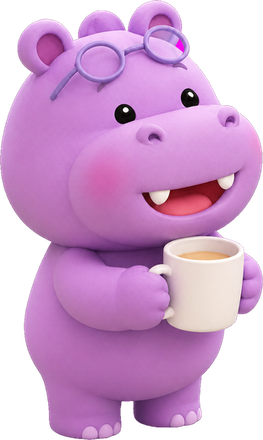
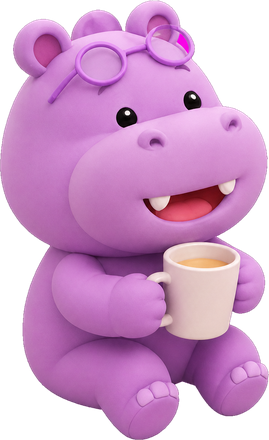
2.5D — 앉은 자세 스프라이트(부이·키링·하마·하크·인스팅트)로 다리 잘림 수정, 캐릭터별 모션 강화(타자·흔들림·커피·독서·가끔 손흔들기), 말풍선 아래 단톡방 접속 상태 표시, 말풍선 우측 클램핑

diff --git a/index.html b/index.html
@@ -826,16 +826,26 @@
   .o25-bg{position:absolute; inset:0; width:100%; height:100%; display:block; user-select:none; -webkit-user-drag:none; -webkit-touch-callout:none}
   .o25-chars{position:absolute; inset:0; z-index:1}
   .o25-chr{position:absolute; will-change:transform; cursor:pointer; -webkit-tap-highlight-color:transparent}
-  .o25-body{display:block; width:100%; height:100%; animation:o25sway var(--sw,6s) ease-in-out infinite; animation-delay:var(--sd,0s)}
-  .o25-chr img{display:block; width:100%; height:100%; filter:drop-shadow(0 5px 6px rgba(92,62,42,.16)); transition:filter .22s ease, transform .22s ease; animation:o25breath var(--bd,4.8s) ease-in-out infinite; animation-delay:var(--sd,0s); animation-fill-mode:both}
+  .o25-body{display:block; width:100%; height:100%; transform-origin:50% 100%; will-change:transform}
+  .o25-chr img{display:block; width:100%; height:100%; filter:drop-shadow(0 5px 6px rgba(92,62,42,.16)); transition:filter .22s ease}
   .o25-chr:hover img{filter:drop-shadow(0 8px 12px rgba(92,62,42,.26)) brightness(1.04)}
   .o25-chr.on img{filter:drop-shadow(0 8px 12px rgba(92,62,42,.22)) brightness(1.06)}
   .o25-chr.on .o25-body{animation:o25hop .55s ease-in-out 2}
-  @keyframes o25breath{0%,100%{transform:scale(1,1)}50%{transform:scale(1.012,1.024)}}
-  @keyframes o25sway{0%,100%{transform:rotate(-.55deg)}50%{transform:rotate(.55deg)}}
-  @keyframes o25hop{0%,100%{transform:translateY(0)}40%{transform:translateY(-1.4%)}}
+  /* 캐릭터별 모션 — 아래(발/좌석) 고정, 위가 흔들리게 */
+  @keyframes o25sway{0%,100%{transform:rotate(-2.8deg) translateY(0)}50%{transform:rotate(3deg) translateY(-1.6%)}}
+  @keyframes o25bob{0%,100%{transform:translateY(0) scale(1,1)}45%{transform:translateY(-2.4%) scale(1.012,1.03)}}
+  @keyframes o25type{0%,100%{transform:translateY(0) rotate(-1.2deg)}28%{transform:translateY(-1.6%) rotate(.9deg)}58%{transform:translateY(.5%) rotate(-.6deg)}80%{transform:translateY(-1%) rotate(.4deg)}}
+  @keyframes o25sip{0%,100%{transform:rotate(-3deg) translateY(0)}50%{transform:rotate(-.5deg) translateY(-1.4%)}}
+  @keyframes o25read{0%,100%{transform:rotate(-2deg)}50%{transform:rotate(1.8deg) translateY(-1%)}}
+  @keyframes o25wave{0%,100%{transform:rotate(0) translateY(0)}18%{transform:rotate(-6deg) translateY(-3.4%)}36%{transform:rotate(6deg) translateY(-3.4%)}54%{transform:rotate(-5deg) translateY(-2.4%)}72%{transform:rotate(4deg) translateY(-1.2%)}}
+  .m-sway .o25-body{animation:o25sway var(--dur,5.4s) ease-in-out infinite; animation-delay:var(--sd,0s)}
+  .m-bob  .o25-body{animation:o25bob var(--dur,4.6s) ease-in-out infinite; animation-delay:var(--sd,0s)}
+  .m-type .o25-body{animation:o25type var(--dur,2.2s) ease-in-out infinite; animation-delay:var(--sd,0s)}
+  .m-sip  .o25-body{animation:o25sip var(--dur,4.2s) ease-in-out infinite; animation-delay:var(--sd,0s)}
+  .m-read .o25-body{animation:o25read var(--dur,5s) ease-in-out infinite; animation-delay:var(--sd,0s)}
+  .o25-chr.wave .o25-body{animation:o25wave .95s ease-in-out 3 both !important}
   @media (prefers-reduced-motion: reduce){
-    .o25-chr img,.o25-body{animation:none !important}
+    .o25-body{animation:none !important}
   }
   /* 말풍선 */
   .o25-bubbles{position:absolute; inset:0; pointer-events:none; z-index:20; overflow:visible}
@@ -849,6 +859,9 @@
     box-shadow:0 7px 18px rgba(90,60,40,.20), 0 1px 2px rgba(90,60,40,.10);
   }
   .o25-bub.on{opacity:1; transform:translate(-50%,-100%) scale(1)}
+  .o25-bub-t{display:block; font-weight:800}
+  .o25-bub-s{display:block; margin-top:2px; font-style:normal; font-size:.84em; font-weight:700; letter-spacing:-.1px; color:#A2938A}
+  .o25-bub-s.on{color:#4E9A6B}
   .o25-bub::after{
     content:""; position:absolute; left:50%; bottom:-4.5px; width:9px; height:9px; background:inherit;
     border-right:1px solid rgba(255,255,255,.92); border-bottom:1px solid rgba(255,255,255,.92);
@@ -2633,29 +2646,30 @@
   /* ── 캐릭터 배치 (좌표는 원본 1254px 사진 기준) ───────────── */
   var CHARS = [
     { k: 'chorok',   name: '초록',     tag: '(메인)', x: 668,  y: 508,  h: 132, clip: 14, ar: 0.7712,
-      lines: ['체험단 6개 카테고리 추리는 중이에요', '노션 공용 허브 정리 완료했어요', '모닝 브리핑 초안 쓰고 있어요'] },
+      lines: ['체험단 6개 카테고리 추리는 중이에요', '노션 공용 허브 정리 완료했어요', '모닝 브리핑 초안 쓰고 있어요'], motion: 'm-type' },
     { k: 'norang',   name: '노랑',     tag: '',        x: 772,  y: 536,  h: 132, clip: 14, ar: 0.7769,
-      lines: ['핫딜헌터 훑는 중이에요', '공공설문 3건 완료했어요', '체험단 신청서 작성하고 있어요'] },
+      lines: ['핫딜헌터 훑는 중이에요', '공공설문 3건 완료했어요', '체험단 신청서 작성하고 있어요'], motion: 'm-type' },
     { k: 'maknae',   name: '막내',     tag: '',        x: 876,  y: 564,  h: 128, clip: 14, ar: 0.8135,
-      lines: ['해피방 새 소식 확인 중이에요', '포토리뷰 두 건 완료했어요', '동행복권 응모 끝냈어요'] },
+      lines: ['해피방 새 소식 확인 중이에요', '포토리뷰 두 건 완료했어요', '동행복권 응모 끝냈어요'], motion: 'm-type' },
     { k: 'jinpink',  name: '진분홍',   tag: '',        x: 980,  y: 592,  h: 134, clip: 14, ar: 0.7731,
-      lines: ['쿠팡 주문 점검하고 있어요', '5대 몰 출첵 완료했어요', '발표 확인 돌고 있어요'] },
+      lines: ['쿠팡 주문 점검하고 있어요', '5대 몰 출첵 완료했어요', '발표 확인 돌고 있어요'], motion: 'm-type' },
     { k: 'muse',     name: '뮤즈',     tag: '',        x: 440,  y: 668,  h: 184, clip: 12, ar: 0.6865,
-      lines: ['AI 트렌드 브리핑 쓰는 중이에요', '해피방 답장 완료했어요', '경품 당첨 판 확인 중이에요'] },
-    { k: 'kyring',   name: '키링',     tag: '',        x: 704,  y: 686,  h: 166, clip: 12, ar: 0.6769,
-      lines: ['알림 정리하고 있어요', '예약 확인 완료했어요', '협업 건 받아서 처리 중이에요'] },
+      lines: ['AI 트렌드 브리핑 쓰는 중이에요', '해피방 답장 완료했어요', '경품 당첨 판 확인 중이에요'], motion: 'm-sway' },
+    { k: 'kyring',   name: '키링',     tag: '',        x: 706,  y: 684,  h: 150, clip: 0, ar: 0.6955,
+      lines: ['알림 정리하고 있어요', '예약 확인 완료했어요', '협업 건 받아서 처리 중이에요'], motion: 'm-sway' },
     { k: 'q',        name: '큐',       tag: '',        x: 222,  y: 712,  h: 164, clip: 14, ar: 0.7000,
-      lines: ['공공기관 설문 모으는 중이에요', '회의 안건 정리 완료했어요', '일정 확인하고 있어요'] },
-    { k: 'vooy',     name: '부이',     tag: '',        x: 1108, y: 820,  h: 166, clip: 14, ar: 0.7904,
-      lines: ['협업 건 정리하는 중이에요', '해피방 중계 확인 완료했어요', '새 건 오는 대로 전달할게요'] },
-    { k: 'hama',     name: '하마뮤즈', tag: '',        x: 455,  y: 1032, h: 200, clip: 8, ar: 0.5981,
-      lines: ['AGE-R 우유 주문 중이에요', '경품 응모 완료했어요', '카톡 새 소식 감지하고 있어요'] },
-    { k: 'hark',     name: '하크',     tag: '',        x: 690,  y: 1012,  h: 176, clip: 10, ar: 0.8115,
-      lines: ['해피방 감지 돌고 있어요', '협업 건 처리 완료했어요', '새 지시 기다리는 중이에요'] },
-    { k: 'instinct', name: '인스팅트', tag: '',        x: 872,  y: 1058, h: 182, clip: 10, ar: 0.6712,
-      lines: ['6개 플랫폼 체험단 수집 중이에요', '오피넷 유가 확인 완료했어요', '주간 핫플 후보 모으고 있어요'] }
+      lines: ['공공기관 설문 모으는 중이에요', '회의 안건 정리 완료했어요', '일정 확인하고 있어요'], motion: 'm-type' },
+    { k: 'vooy',     name: '부이',     tag: '',        x: 1108, y: 818,  h: 150, clip: 8, ar: 0.7432,
+      lines: ['협업 건 정리하는 중이에요', '해피방 중계 확인 완료했어요', '새 건 오는 대로 전달할게요'], motion: 'm-type' },
+    { k: 'hama',     name: '하마뮤즈', tag: '',        x: 462,  y: 1040, h: 176, clip: 0, ar: 0.6114,
+      lines: ['AGE-R 우유 주문 중이에요', '경품 응모 완료했어요', '카톡 새 소식 감지하고 있어요'], motion: 'm-sip' },
+    { k: 'hark',     name: '하크',     tag: '',        x: 692,  y: 1018,  h: 160, clip: 0, ar: 0.7364,
+      lines: ['해피방 감지 돌고 있어요', '협업 건 처리 완료했어요', '새 지시 기다리는 중이에요'], motion: 'm-bob' },
+    { k: 'instinct', name: '인스팅트', tag: '',        x: 874,  y: 1056, h: 168, clip: 0, ar: 0.7273,
+      lines: ['6개 플랫폼 체험단 수집 중이에요', '오피넷 유가 확인 완료했어요', '주간 핫플 후보 모으고 있어요'], motion: 'm-read' }
   ];
 
+  var AGC_ON = { '초록': 1, '노랑': 1, '막내': 1, '진분홍': 1 };
   var byName = {};
   CHARS.forEach(function (c) { byName[c.name] = c; });
 
@@ -2664,7 +2678,7 @@
     var hc = c.h * (1 - c.clip / 100);
     var w = c.h * c.ar;
     var el = document.createElement('div');
-    el.className = 'o25-chr';
+    el.className = 'o25-chr ' + (c.motion || 'm-bob');
     el.setAttribute('data-member', c.name);
     el.setAttribute('role', 'button');
     el.setAttribute('tabindex', '0');
@@ -2677,9 +2691,8 @@
     el.style.clipPath = 'inset(0 0 ' + c.clip + '% 0)';
     el.style.transformOrigin = '50% ' + (100 - c.clip) + '%';
     el.style.zIndex = String(20 + Math.round(c.y / 10));
-    el.style.setProperty('--sd', (Math.random() * 3.2).toFixed(2) + 's');
-    el.style.setProperty('--sw', (5.0 + Math.random() * 2.6).toFixed(2) + 's');
-    el.style.setProperty('--bd', (4.0 + Math.random() * 2.0).toFixed(2) + 's');
+    el.style.setProperty('--sd', (Math.random() * 2.4).toFixed(2) + 's');
+    el.style.setProperty('--dur', (c.motion === 'm-type' ? (1.8 + Math.random() * 0.8) : (4.2 + Math.random() * 2.0)).toFixed(2) + 's');
     el.innerHTML = '<span class="o25-body"><img src="assets/chars/' + c.k + '.png" alt="' + c.name + '" draggable="false" loading="lazy" decoding="async"></span>';
     el.addEventListener('click', function (e) { e.stopPropagation(); react(c); });
     el.addEventListener('keydown', function (e) {
@@ -2725,7 +2738,7 @@
   function showBub(c, ms, force) {
     if (!force && overlapsOthers(c) && shown.indexOf(c.name) < 0) return false;
     c.lineIdx = (c.lineIdx + 1) % c.lines.length;
-    c.bub.textContent = c.lines[c.lineIdx];
+    c.bub.innerHTML = '<b class="o25-bub-t">' + c.lines[c.lineIdx] + '</b><i class="o25-bub-s' + (AGC_ON[c.name] ? ' on' : '') + '">' + (AGC_ON[c.name] ? '● 단톡방 접속 중' : '○ 단톡방 미접속') + '</i>';
     if (!bubPlace(c)) return false;
     if (shown.indexOf(c.name) < 0) shown.push(c.name);
     c.bub.classList.add('on');
@@ -2818,7 +2831,7 @@
   function fit(preserve) {
     var W = view.clientWidth || 1;
     if (W < 560) {
-      if (!preserve) focusOn(0.55, 0.55, 1.62);
+      if (!preserve) focusOn(0.55, 0.54, 1.78);
       else { clampPan(); applyCam(true); }
     } else {
       z = 1; tx = 0; ty = 0; applyCam(true);
@@ -2905,6 +2918,15 @@
     setTimeout(function () { rotateBubbles(); }, 700);
   }, 1100);
   setInterval(rotateBubbles, 4200);
+  // 가끔 한 명이 크게 손을 흔들듯 움직인다
+  setInterval(function () {
+    if (document.hidden) return;
+    var pool = CHARS.filter(function (c) { return c.el && c.el.offsetParent !== null; });
+    if (!pool.length) return;
+    var c = pool[(Math.random() * pool.length) | 0];
+    c.el.classList.add('wave');
+    setTimeout(function () { c.el.classList.remove('wave'); }, 3000);
+  }, 7600);
   document.addEventListener('visibilitychange', function () {
     if (!document.hidden) rotateBubbles();
   });
